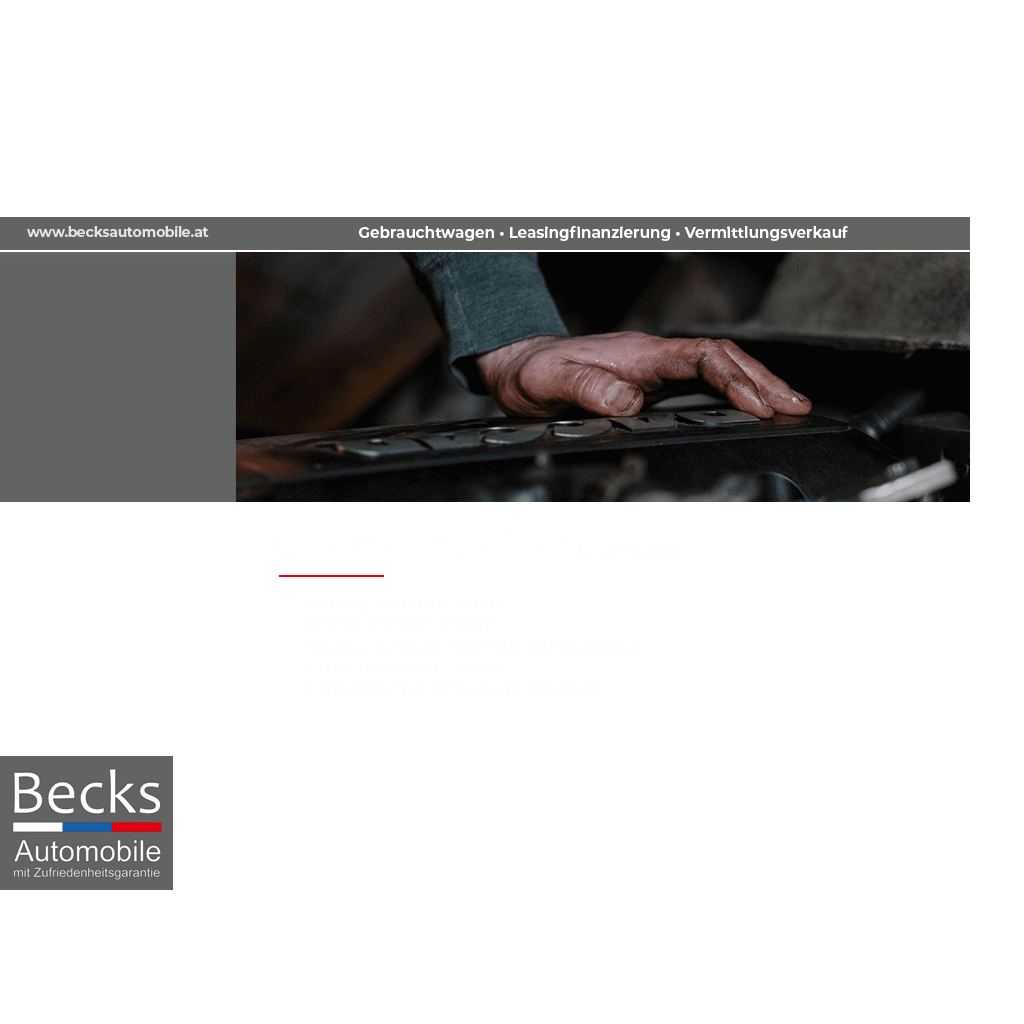
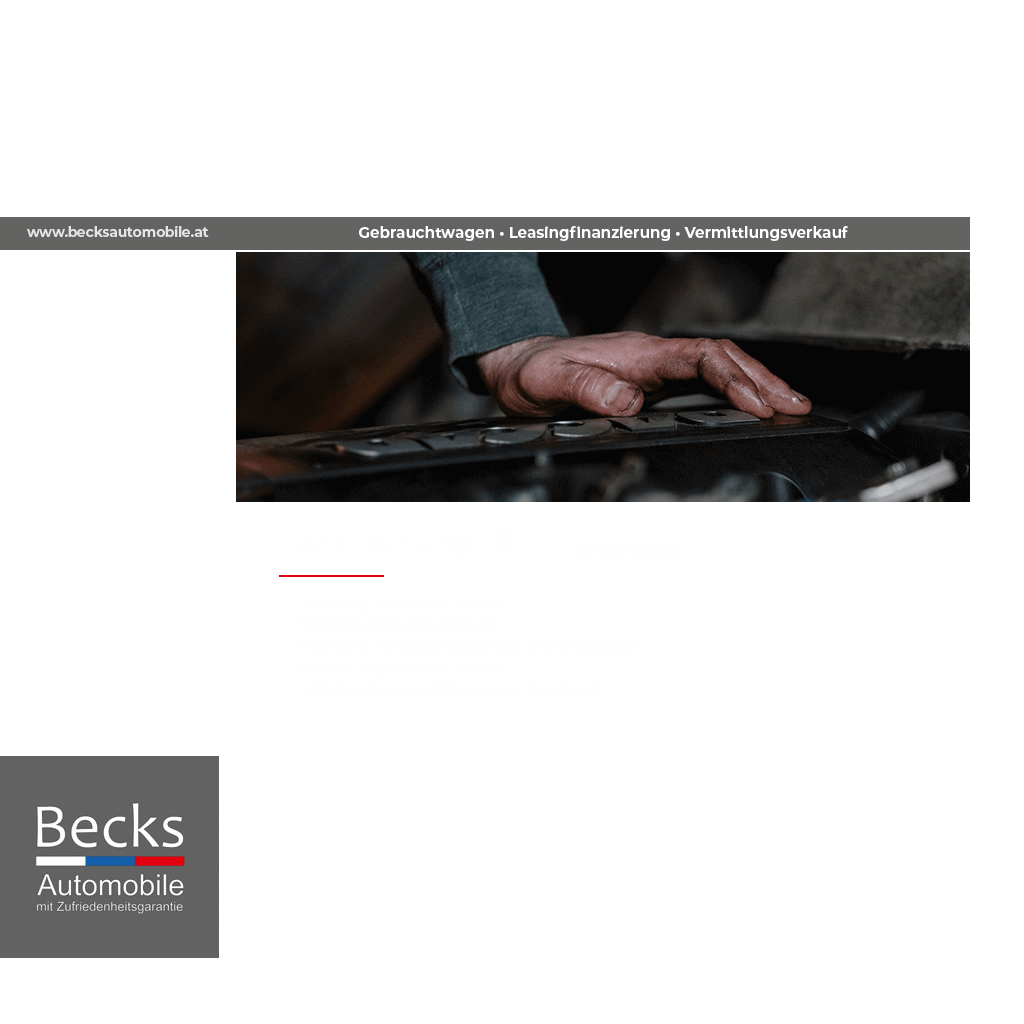
asdfasdf
asdfasdf

Changed region(s): [[0.0, 0.2188, 0.25, 0.5], [0.0, 0.7188, 0.2188, 0.9375]]

diff --git a/beckspreview/index.js b/beckspreview/index.js
@@ -3,7 +3,7 @@
 var p; // shortcut to reference prototypes
 var lib={};var ss={};var img={};
 lib.ssMetadata = [
-		{name:"index_atlas_1", frames: [[0,0,970,250],[0,252,970,250],[0,756,173,134],[0,504,970,250]]}
+		{name:"index_atlas_1", frames: [[0,0,970,250],[0,252,970,250],[0,756,219,202],[0,504,970,250]]}
 ];
 
 
@@ -130,7 +130,7 @@ if (reversed == null) { reversed = false; }
 
 	this._renderFirstFrame();
 
-}).prototype = getMCSymbolPrototype(lib.Symbol1, new cjs.Rectangle(0,0,173,134), null);
+}).prototype = getMCSymbolPrototype(lib.Symbol1, new cjs.Rectangle(0,0,219,202), null);
 
 
 // stage content:
@@ -147,20 +147,20 @@ if (reversed == null) { reversed = false; }
 
 	// balken
 	this.instance = new lib.Symbol2();
-	this.instance.setTransform(486,161,1,1,0,0,0,485,125);
+	this.instance.setTransform(486,162,1,1,0,0,0,485,125);
 
-	this.timeline.addTween(cjs.Tween.get(this.instance).wait(1).to({y:159},0).wait(1).to({y:157},0).wait(1).to({y:155},0).wait(1).to({y:153},0).wait(1).to({y:151},0).wait(1).to({y:149},0).wait(1).to({y:147},0).wait(1).to({y:145},0).wait(1).to({y:143},0).wait(1).to({y:141},0).wait(1).to({y:139},0).wait(1).to({y:137},0).wait(1).to({y:135},0).wait(1).to({y:133},0).wait(1).to({y:131},0).wait(1).to({y:129},0).wait(1).to({y:127},0).wait(1).to({y:125},0).wait(107));
+	this.timeline.addTween(cjs.Tween.get(this.instance).wait(1).to({y:159.9},0).wait(1).to({y:157.85},0).wait(1).to({y:155.8},0).wait(1).to({y:153.75},0).wait(1).to({y:151.7},0).wait(1).to({y:149.65},0).wait(1).to({y:147.6},0).wait(1).to({y:145.55},0).wait(1).to({y:143.5},0).wait(1).to({y:141.4},0).wait(1).to({y:139.35},0).wait(1).to({y:137.3},0).wait(1).to({y:135.25},0).wait(1).to({y:133.2},0).wait(1).to({y:131.15},0).wait(1).to({y:129.1},0).wait(1).to({y:127.05},0).wait(1).to({y:125},0).wait(107));
 
 	// logo
 	this.instance_1 = new lib.Symbol1();
-	this.instance_1.setTransform(116.55,104.05,0.0474,0.0474,0,0,0,86.5,67.5);
+	this.instance_1.setTransform(116.55,104.05,0.009,0.009,0,0,0,77.8,61.1);
 
-	this.timeline.addTween(cjs.Tween.get(this.instance_1).wait(1).to({regY:67,scaleX:0.1109,scaleY:0.1109,x:116.45,y:103.95},0).wait(1).to({scaleX:0.1744,scaleY:0.1744,x:116.4,y:103.9},0).wait(1).to({scaleX:0.2379,scaleY:0.2379,x:116.35,y:103.8},0).wait(1).to({scaleX:0.3014,scaleY:0.3014,x:116.25,y:103.75},0).wait(1).to({scaleX:0.3649,scaleY:0.3649,x:116.15,y:103.65},0).wait(1).to({scaleX:0.4284,scaleY:0.4284,x:116.1,y:103.6},0).wait(1).to({scaleX:0.4919,scaleY:0.4919,x:116.05,y:103.55},0).wait(1).to({scaleX:0.5555,scaleY:0.5555,x:116,y:103.45},0).wait(1).to({scaleX:0.619,scaleY:0.619,x:115.95,y:103.4},0).wait(1).to({scaleX:0.6825,scaleY:0.6825,x:115.85,y:103.35},0).wait(1).to({scaleX:0.746,scaleY:0.746,x:115.8,y:103.3},0).wait(1).to({scaleX:0.8095,scaleY:0.8095,x:115.7,y:103.25},0).wait(1).to({scaleX:0.873,scaleY:0.873,x:115.65,y:103.15},0).wait(1).to({scaleX:0.9365,scaleY:0.9365,x:115.6,y:103.1},0).wait(1).to({scaleX:1,scaleY:1,x:115.5,y:103},0).wait(110));
+	this.timeline.addTween(cjs.Tween.get(this.instance_1).wait(1).to({regX:109.5,regY:101,scaleX:0.0751,scaleY:0.0751,x:117.3,y:105.15},0).wait(1).to({scaleX:0.1411,scaleY:0.1411,x:117.8,y:105.85},0).wait(1).to({scaleX:0.2072,scaleY:0.2072,x:118.3,y:106.6},0).wait(1).to({scaleX:0.2733,scaleY:0.2733,x:118.8,y:107.35},0).wait(1).to({scaleX:0.3393,scaleY:0.3393,x:119.3,y:108.05},0).wait(1).to({scaleX:0.4054,scaleY:0.4054,x:119.8,y:108.8},0).wait(1).to({scaleX:0.4715,scaleY:0.4715,x:120.3,y:109.5},0).wait(1).to({scaleX:0.5375,scaleY:0.5375,x:120.8,y:110.3},0).wait(1).to({scaleX:0.6036,scaleY:0.6036,x:121.3,y:111},0).wait(1).to({scaleX:0.6697,scaleY:0.6697,x:121.8,y:111.75},0).wait(1).to({scaleX:0.7357,scaleY:0.7357,x:122.25,y:112.45},0).wait(1).to({scaleX:0.8018,scaleY:0.8018,x:122.8,y:113.25},0).wait(1).to({scaleX:0.8679,scaleY:0.8679,x:123.3,y:113.95},0).wait(1).to({scaleX:0.9339,scaleY:0.9339,x:123.75,y:114.7},0).wait(1).to({scaleX:1,scaleY:1,x:124.25,y:115.45},0).wait(110));
 
 	// eck
 	this.shape = new cjs.Shape();
-	this.shape.graphics.f("#636363").s().p("AzzTsMAAAgnXMAnnAAAMAAAAnXg");
-	this.shape.setTransform(111,125.4);
+	this.shape.graphics.f("#FFFFFF").s().p("AyoRgMAAAgi/MAlRAAAMAAAAi/g");
+	this.shape.setTransform(117.5,111.375);
 
 	this.timeline.addTween(cjs.Tween.get(this.shape).wait(125));
 
@@ -173,14 +173,14 @@ if (reversed == null) { reversed = false; }
 
 	// bg
 	this.instance_3 = new lib.bg();
-	this.instance_3.setTransform(1,1);
+	this.instance_3.setTransform(1,0);
 
 	this.timeline.addTween(cjs.Tween.get(this.instance_3).wait(125));
 
 	this._renderFirstFrame();
 
 }).prototype = p = new lib.AnMovieClip();
-p.nominalBounds = new cjs.Rectangle(21.9,124.4,949.1,161.6);
+p.nominalBounds = new cjs.Rectangle(21.9,124.4,949.1,162.6);
 // library properties:
 lib.properties = {
 	id: '4A3608690A31ED4EA110DB545FB0E6E1',

diff --git a/beckspreview/index.html b/beckspreview/index.html
@@ -16,20 +16,6 @@
 <script src="https://code.createjs.com/1.0.0/createjs.min.js"></script>
 <script src="index.js"></script>
 <script>
-	var getUriParams = function() {
-		var query_string = {}
-		var query = window.location.search.substring(1);
-		var parmsArray = query.split('&');
-		if(parmsArray.length <= 0) return query_string;
-		for(var i = 0; i < parmsArray.length; i++) {
-			var pair = parmsArray[i].split('=');
-			var val = decodeURIComponent(pair[1]);
-			if (val != '' && pair[0] != '') query_string[pair[0]] = val;
-		}
-		return query_string;
-	}();
-</script>	
-<script>
 var canvas, stage, exportRoot, anim_container, dom_overlay_container, fnStartAnimation;
 function init() {
 	canvas = document.getElementById("canvas");
@@ -73,15 +59,10 @@ function handleComplete(evt,comp) {
 <!-- write your code here -->
 </head>
 <body onload="init();" style="margin:0px;">
-	<a href="#clicktag" id="IAB_clicktag" target=“_blank“>
-		<div id="animation_container" style="background-color:rgba(255, 255, 255, 1.00); width:970px; height:250px">
-			<canvas id="canvas" width="970" height="250" style="position: absolute; display: block; background-color:rgba(255, 255, 255, 1.00);"></canvas>
-			<div id="dom_overlay_container" style="pointer-events:none; overflow:hidden; width:970px; height:250px; position: absolute; left: 0px; top: 0px; display: block;">
-			</div>
+	<div id="animation_container" style="background-color:rgba(255, 255, 255, 1.00); width:970px; height:250px">
+		<canvas id="canvas" width="970" height="250" style="position: absolute; display: block; background-color:rgba(255, 255, 255, 1.00);"></canvas>
+		<div id="dom_overlay_container" style="pointer-events:none; overflow:hidden; width:970px; height:250px; position: absolute; left: 0px; top: 0px; display: block;">
 		</div>
-	</a>
-<script>
-	document.getElementById('IAB_clicktag').setAttribute('href',getUriParams.clicktag);
-</script>
+	</div>
 </body>
 </html>
